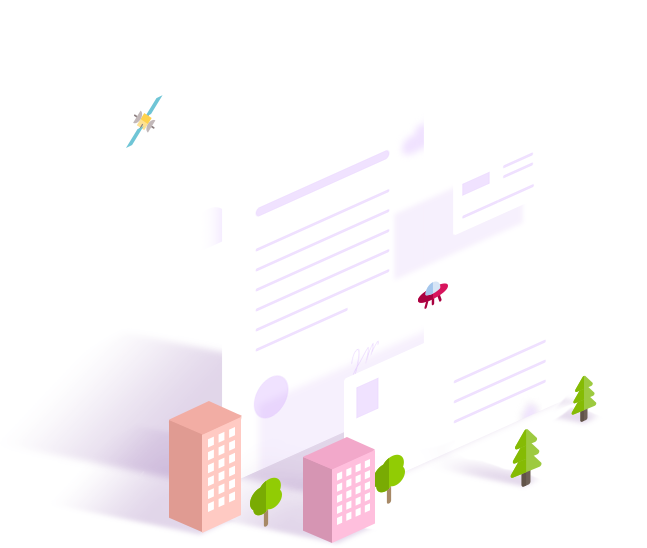
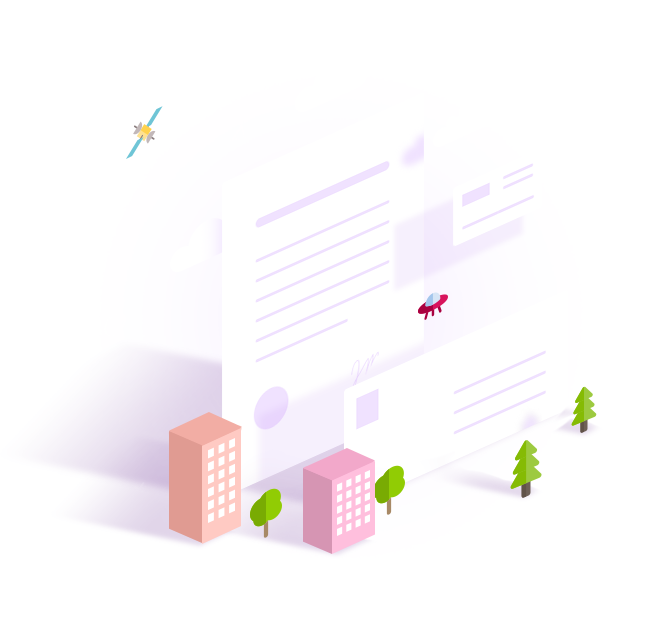
Added header content

diff --git a/src/blocks/modules/header/header.scss b/src/blocks/modules/header/header.scss
@@ -1,6 +1,6 @@
 .header {
-    padding: 61px 0 0 0;
-    background: url('/img/header_bg.png') no-repeat center;
+    padding: 61px 0 68px 0;
+    background: url("/img/header_bg.png") no-repeat center;
     &__items {
         display: flex;
         align-items: center;
@@ -9,7 +9,7 @@
     &__logo {
         margin-right: 135px;
         color: #ffffff;
-        font-family: "Open Sans Extrabold";
+        font-family: "Open Sans Extrabold", sans-serif;
         font-size: 18px;
         font-weight: 400;
         text-transform: uppercase;
@@ -27,7 +27,7 @@
     &__phone {
         margin-right: 35px;
         color: #ffffff;
-        font-family: "Open Sans";
+        font-family: "Open Sans", sans-serif;
         font-size: 16px;
         font-weight: 700;
         text-transform: uppercase;
@@ -38,31 +38,64 @@
     &__callback-btn {
         min-width: 165px;
         height: 34px;
+        border: 2px solid #ffffff;
         padding: 5px 10px;
         color: #ffffff;
-        font-family: "Open Sans Extrabold";
+        font-family: "Open Sans Extrabold", sans-serif;
         font-size: 11px;
         font-weight: 400;
         text-transform: uppercase;
         letter-spacing: 0.55px;
         background: none;
         border-radius: 17px;
-        border: 2px solid #ffffff;
     }
     &__content {
         display: flex;
     }
     &__img {
+        position: relative;
+        top: -11px;
+        left: -108px;
         width: 647px;
+    }
+    &__desc {
+        padding-top: 42px;
     }
     &__slogan {
         width: 374px;
+        margin-bottom: 35px;
         color: #ffffff;
-        font-family: "Muller Extra Bold";
+        font-family: "Muller Extra Bold", sans-serif;
         font-size: 60px;
         line-height: 75px;
         text-transform: uppercase;
         letter-spacing: 1.76px;
+    }
+    &__title {
+        width: 427px;
+        padding-bottom: 75px;
+        color: #ffffff;
+        font-family: "Muller Medium", sans-serif;
+        font-size: 32px;
+        line-height: 38px;
+        font-weight: 400;
+    }
+    &__btn-wrap {
+        display: flex;
+        align-items: center;
+        justify-content: space-between;
+        margin-bottom: 119px;
+    }
+    &__button {
+        margin-right: 29px;
+    }
+    &__text {
+        width: 207px;
+        color: #ffffff;
+        font-family: "Open Sans", sans-serif;
+        font-size: 16px;
+        line-height: 20px;
+        font-weight: 400;
     }
 }
 
@@ -74,7 +107,7 @@
     }
     &__link {
         color: #ffffff;
-        font-family: "Open Sans Semibold";
+        font-family: "Open Sans Semibold", sans-serif;
         font-size: 13px;
         font-weight: 400;
         text-transform: uppercase;
@@ -82,4 +115,12 @@
         line-height: 13px;
         text-decoration: none;
     }
+}
+
+.mouse {
+    display: block;
+    width: 19px;
+    height: 31px;
+    margin: 0 auto;
+    background: url("/img/svg/mouse.svg") no-repeat center;
 }

diff --git a/src/blocks/modules/header/header.html b/src/blocks/modules/header/header.html
@@ -4,11 +4,11 @@
             <div class="header__logo">Artactive</div>
             <nav class="header__nav">
                 <ul class="menu">
-                    <li class="menu__item"><a class="menu__link"href="#">О нас</a</li>
-                    <li class="menu__item"><a class="menu__link"href="#">Услуги</a></li>
-                    <li class="menu__item"><a class="menu__link"href="#">Отзывы</a></li>
-                    <li class="menu__item"><a class="menu__link"href="#">Faq</a></li>
-                    <li class="menu__item"><a class="menu__link"href="#">Контакты</a></li>
+                    <li class="menu__item"><a class="menu__link" href="#">О нас</a< /li>
+                    <li class="menu__item"><a class="menu__link" href="#">Услуги</a></li>
+                    <li class="menu__item"><a class="menu__link" href="#">Отзывы</a></li>
+                    <li class="menu__item"><a class="menu__link" href="#">Faq</a></li>
+                    <li class="menu__item"><a class="menu__link" href="#">Контакты</a></li>
                 </ul>
             </nav>
             <div class="header__contacts">
@@ -21,12 +21,14 @@
                 <img src="/img/header_img.png" alt="print formats">
             </div>
             <div class="header__desc">
-                <div class="header__slogan">Размер<br> не имеет значения!</div>
-                <h1 class="header__title">Оперативная полиграфия и широкоформатная печать любого размера</h1>
-                <button class="button header__button">Заказать печать</button>
-                <span class="header__text"></span>
+                <div class="header__slogan">Размер<br>не имеет значения!</div>
+                <h1 class="header__title">Оперативная полиграфия<br>и широкоформатная печать любого размера</h1>
+                <div class="header__btn-wrap">
+                    <button class="button header__button">Заказать печать</button>
+                    <span class="header__text">с доставкой по Ярославлю и Ярославской области</span>
+                </div>
             </div>
-            <a class="mouse" href="#""></a>
         </div>
+        <a class="mouse" href="#""></a>
     </div>
 </header>

diff --git a/src/styles/base/_buttons.scss b/src/styles/base/_buttons.scss
@@ -1,0 +1,14 @@
+.button {
+    padding: 17px 41px;
+    border-radius: 24px;
+    border: none;
+    background-color: #fb0275;
+    color: #ffffff;
+    font-family: "Open Sans";
+    font-size: 16px;
+    line-height: 16px;
+    font-weight: 700;
+    text-transform: uppercase;
+    letter-spacing: 1.5px;
+    cursor: pointer;
+}

diff --git a/src/styles/main.scss b/src/styles/main.scss
@@ -4,4 +4,5 @@
 @import "vendor/libs";
 @import "base/fonts";
 @import "base/general";
+@import "base/buttons";
 @import "../blocks/modules";
